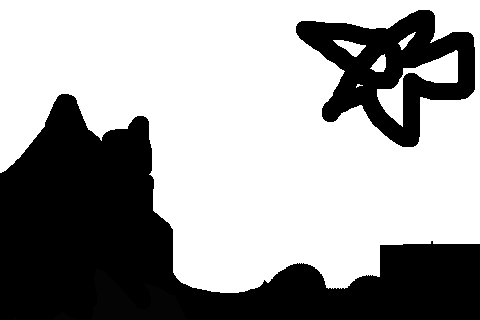
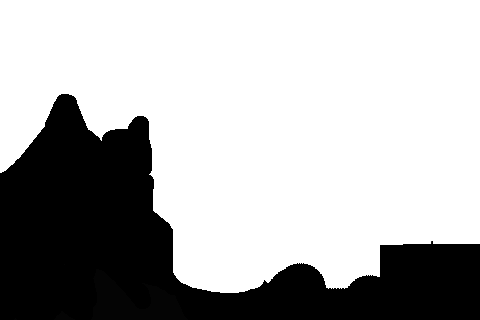
improved code

Changed region(s): [[0.5938, 0.0312, 1.0, 0.4688]]

diff --git a/snippets/terraindemo.html b/snippets/terraindemo.html
@@ -34,7 +34,7 @@ var imgToMap = function(img,a,i){
 	var w=img.width,h=img.height;
 	a=document.createElement("canvas").prop({width:w,height:h}).getContext("2d").drawImage(img,0,0).getImageData(0,0,w,h).data;
 
-	for(i=0;i<w*h;i++) hitMap[i]=a[i<<2]<20
+	for(i=0;i<w*h;i++) hitMap[i]=a[i<<2]<128
 	hitMap.w=w;
 	hitMap.h=h;
 	return hitMap
@@ -43,11 +43,11 @@ var imgToMap = function(img,a,i){
 
 //key press handling
 var key={
-	"left"  : false,
-	"right" : false,
-	"space" : false,
-	"up"    : false,
-	"down"  : false
+	left  : false,
+	right : false,
+	space : false,
+	up    : false,
+	down  : false
 }
 
 ;(function(foo){
@@ -56,26 +56,31 @@ var key={
 
 	foo=function(a,e){
 		key[{
-			37:"left",
-			39:"right",
-			32:"space",
-			38:"up",
-			40:"down"
+			37 : "left",
+			39 : "right",
+			32 : "space",
+			38 : "up",
+			40 : "down"
 		}[e.keyCode]]=a
 	}
 })()
+
+
 //only initialize game ounce images have loaded
 onload=function(){
 
-	var view={
-		 w:480
-		,h:320
-		,x:0
-		,y:0
-	}
-
 	//global variables
 	var w=480, h=320, FPS = 30, scaling=2;
+
+	var defaultDraw = function(){
+		canvas.drawImage(
+			 this.image
+			,(this.x|0)*scaling
+			,(this.y|0)*scaling
+			,this.w*scaling
+			,this.h*scaling
+		)
+	}
 
 	//images
 	var
@@ -84,43 +89,77 @@ onload=function(){
 	,playerl      = document.images[2]
 	,playerHitImg = document.images[3];
 
-	//turn level into 2d array
-	var level     = imgToMap(levelimg);
-	var playerHit = imgToMap(playerHitImg);
+
+	var level={
+		 x     : 0
+		,y     : 0
+		,w     : 480
+		,h     : 320
+		,hit   : imgToMap(levelimg)
+		,image : levelimg
+		,draw  : defaultDraw
+	};
+
 	//collision detection with level terrain
-	var terraincheck = function(x,y,object){
-		var lw=level.w,lh=level.h
-		var w=object.w;
-		var h=object.h;
-		x+=object.x;
-		y+=object.y;
-		var collides=0;
-		var i=0;
-		for(;i<w*h;i++){
-			collides |= level[ (x+(i%w))+(y+i/w|0)*lw ] & object.hit[i];
-			/*if(object.hit[i])
-				canvas.fillStyle = "rgba(255,0,0,0.5)",
-				canvas.fillRect((x+(i%w))*2, (y+i/w|0)*2, 2, 2);
-			else
-				canvas.fillStyle = "rgba(0,255,0,0.5)",
-				canvas.fillRect((x+(i%w))*2, (y+i/w|0)*2, 2, 2);*/
-		}
-		return collides
+
+
+	var collides = function(o1,o2,xoff,yoff){
+
+		xoff |= 0 //offset of object 2 (optional)
+		yoff |= 0 
+
+		var ᑎx, ᑎy, ᑎx2, ᑎy2, ᑎw, ᑎh, ᑎA, i, ix, iy, ix1, iy1, ix2, iy2;
+        
+        // check if two objects intersect (ᑎ)
+		ᑎx  = max( o1.x , o2.x+xoff );
+		ᑎy  = max( o1.y , o2.y+yoff );
+    	ᑎx2 = min( o1.x+o1.w , o2.x+xoff+o2.w );
+	    ᑎy2 = min( o1.y+o1.h , o2.y+yoff+o2.h );
+
+	    if (ᑎx2 > ᑎx && ᑎy2 > ᑎy) {
+
+            ᑎw = ᑎx2 - ᑎx;
+            ᑎh = ᑎy2 - ᑎy;
+            ᑎA = ᑎw * ᑎh;
+
+			for(i=0;i<ᑎA;i++){// check every pixel inside ᑎ for collision
+
+				// position of iterator
+				ix = ( i%ᑎw )
+				iy = (i/ᑎw|0)
+				// position of iterator inside o1
+				ix1 = ix - (o1.x - ᑎx);
+				iy1 = iy - (o1.y - ᑎy);
+				// position of iterator inside o2
+				ix2 = ix - (o2.x+xoff - ᑎx);
+				iy2 = iy - (o2.y+yoff - ᑎy); 
+
+				if( o1.hit[ iy1*o1.w+ix1 ] & o2.hit[ iy2*o2.w+ix2 ] ) return 1
+				
+			}
+	    }
+	    return 0;
 	}
 
-
 	var player={
-		x:180, y:150, w:playerr.width, h:playerr.height, yspeed:0, image:playerr, hit:playerHit
-		,move:function(x,y,a){
-			a=false;
-			if(!terraincheck(x,y,this)){
+		 x     : 180
+		,y     : 150
+		,w     : playerr.width
+		,h     : playerr.height
+		,yυ    : 0
+		,image : playerr
+		,hit   : imgToMap(playerHitImg)
+
+		,move: function(x,y){
+			var a=false;
+			if(!collides(level,this,x,y)){
 				this.x += x;
 				this.y += y;
 				a=true;
 			}
 			return a
 		}
-		,update: function(i){
+		,update: function(){
 			//move left or right
 			var direction = key.right-key.left;
 			if(direction){
@@ -129,29 +168,29 @@ onload=function(){
 			}
 
 			//jump if character is on floor and doesn't have ceiling over it.
-			if(key.up&&terraincheck(0,5,this)&&!terraincheck(0,-8,this))this.yspeed=-9
+			if(key.up&&collides(level,this,0,1)&&!collides(level,this,0,-8))this.yυ=-9
 			
 			//pixel perfect vertical movement
-			for(i=abs(this.yspeed);i--;)this.move(0, sign(this.yspeed))
+			for(var i=abs(this.yυ);i--;)this.move(0, sign(this.yυ))
 
 			//gravity
-			this.yspeed += 1
-			if(terraincheck(0,1,this))this.yspeed=0
+			this.yυ += 1
+			if(collides(level,this,0,1))this.yυ=0
 
 		}
+		,draw: defaultDraw
 	}
-	window.player=player;
-
 
 
 		setInterval(function(){
+
+			player.update()
 			canvas
 				.clearRect(0,0,w*scaling,h*scaling)
-				.drawImage(levelimg,0,0,levelimg.width*scaling,levelimg.height*scaling)
-			
-			canvas
-				.drawImage(player.image,(player.x|0)*scaling,(player.y|0)*scaling,player.image.width*scaling,player.image.height*scaling)
-			player.update()
+
+			level.draw()
+			player.draw()
+
 
 		},1e3/FPS)
 
